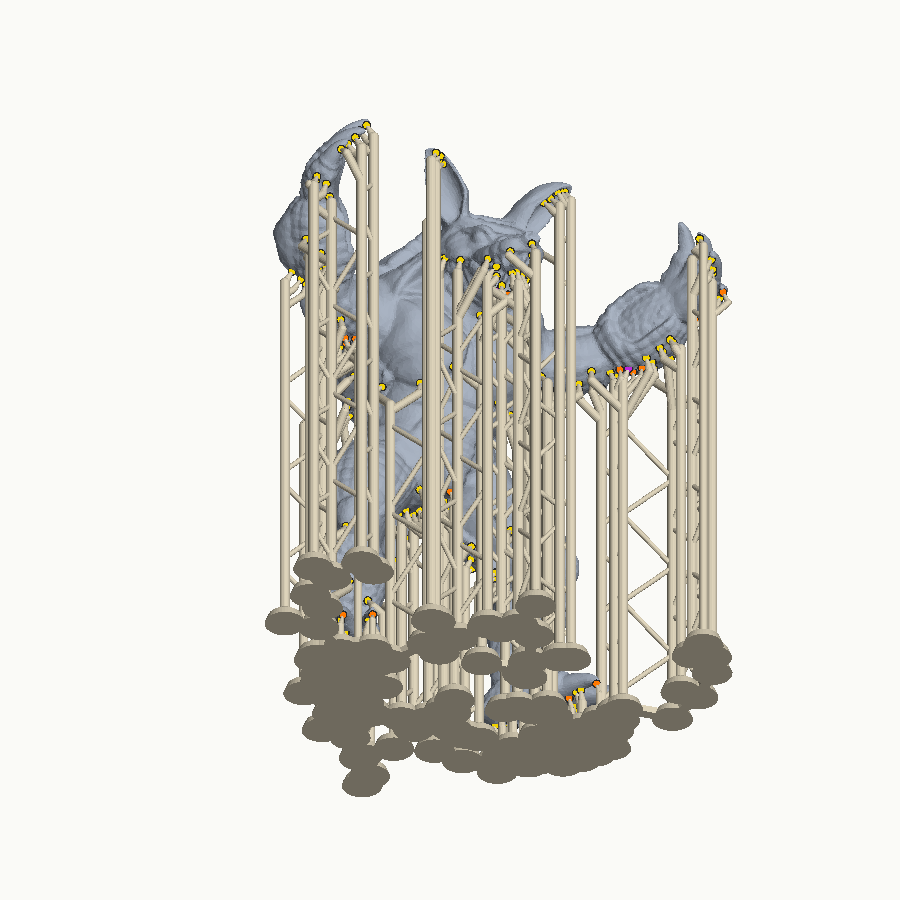
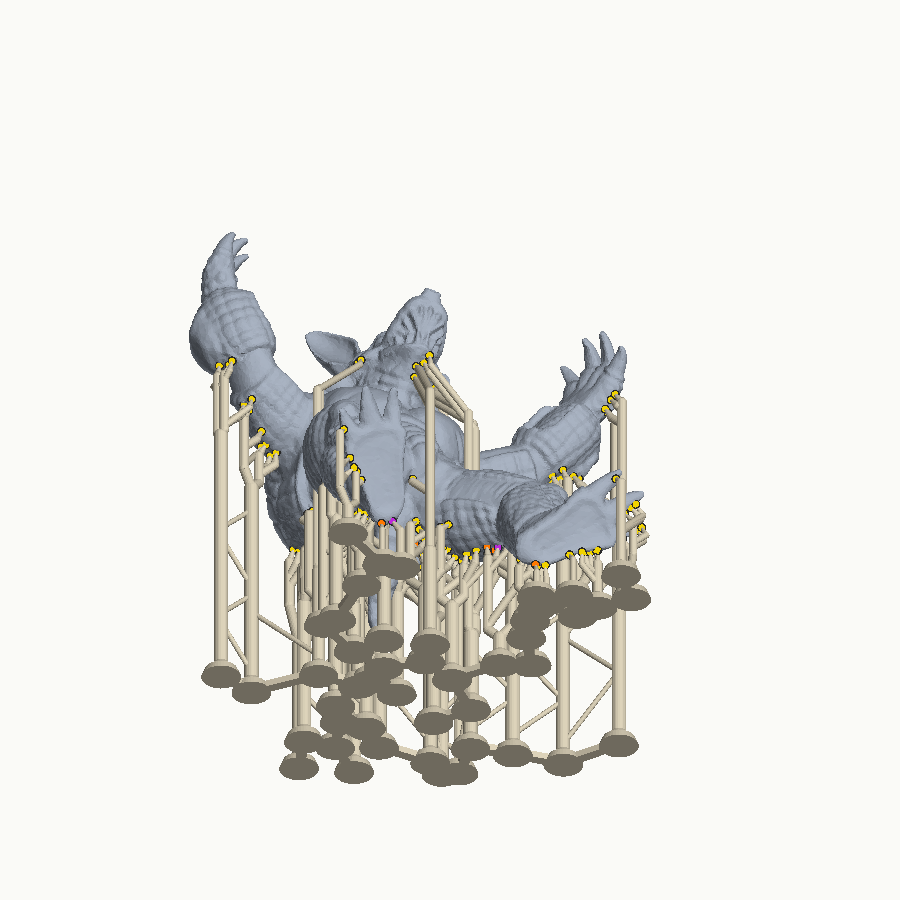
M5 (part): branching trunks
- Pillars within 8 mm merge where 45 deg branches from each meet, below
  the flex zone and below any bridge already attached to either shaft;
  trunk cross-section = sum of the two (capped 1.8 mm), <= 6 tips per
  trunk; branch rods and the trunk's drop are clearance-checked
- Bracing and raft pads only for trunks on the raft; `--no-merge`
- Fix found by the validator: a merge could cut a shaft above a bridge
  attached lower down, leaving the bridge end floating
- Armadillo (best orientation): 82 -> 47 trunks, 189 -> 35 braces,
  4.4 -> 3.9 ml, still 0 floating islands, one-piece raft
- Test: plate at 20 mm elevation gets fewer trunks, tip cap respected,
  branches clear of the model, nothing floats

Claude-Session: https://claude.ai/code/session_01Ughg7iXq7jF1qh9cXm2X9X

Changed region(s): [[0.1867, 0.1244, 0.8089, 0.9022]]

diff --git a/src/support/SupportTree.cpp b/src/support/SupportTree.cpp
@@ -101,6 +101,7 @@ private:
     void newPillar(int head, bool on_model, const Vec3& anchor = {}, const Vec3& anchor_n = {});
     void brace();
     void raft();
+    void mergePillars();
 
     const TriangleMesh& mesh_;
     const TreeConfig& cfg_;
@@ -177,8 +178,10 @@ bool Builder::attachToPillar(int hi) {
     Pillar& P = out_.pillars[best];
     out_.bridges.push_back({h.junction, best_attach, h.spec.shaft_diameter});
     P.top = std::max(P.top, best_attach.z);
+    P.lowest_attach = std::min(P.lowest_attach, best_attach.z);
     P.heads.push_back(hi);
     ++P.bridges;
+    ++P.tips;
     P.diameter = std::max(P.diameter, h.spec.shaft_diameter) + 0.1;
     return true;
 }
@@ -205,7 +208,7 @@ void Builder::brace() {
     // Minimum spanning tree over raft-standing pillars (Prim, O(n²)).
     std::vector<int> idx;
     for (size_t i = 0; i < out_.pillars.size(); ++i)
-        if (!out_.pillars[i].on_model) idx.push_back(static_cast<int>(i));
+        if (!out_.pillars[i].on_model && !out_.pillars[i].merged) idx.push_back(static_cast<int>(i));
     const size_t n = idx.size();
     if (n < 2) return;
     std::vector<double> best(n, 1e300);
@@ -241,12 +244,68 @@ void Builder::brace() {
     }
 }
 
+void Builder::mergePillars() {
+    if (!cfg_.merge_pillars) return;
+    const double z_floor = out_.raft_top + cfg_.base_height + 1.0;
+    auto active = [&](const Pillar& P) { return !P.on_model && !P.merged; };
+    while (true) {
+        // Closest mergeable pair first (deterministic: ties by index).
+        int ba = -1, bb = -1;
+        double bd = 1e300;
+        Vec3 bm;
+        double bzs = 0;
+        for (size_t i = 0; i < out_.pillars.size(); ++i) {
+            const Pillar& A = out_.pillars[i];
+            if (!active(A)) continue;
+            for (size_t j = i + 1; j < out_.pillars.size(); ++j) {
+                const Pillar& B = out_.pillars[j];
+                if (!active(B)) continue;
+                const double d = distance(A.xy, B.xy);
+                if (d > cfg_.max_merge_distance || d >= bd || d < 1e-6) continue;
+                if (A.tips + B.tips > cfg_.max_tips_per_trunk) continue;
+                // Branches start below the flex zone of the lower pillar and
+                // meet at 45°.
+                // ... and below every bridge already attached to either shaft.
+                const double zs = std::min({std::min(A.top, B.top) - cfg_.flex_zone, A.lowest_attach - 0.5,
+                                            B.lowest_attach - 0.5});
+                const Vec2 mid = (A.xy + B.xy) * 0.5;
+                const Vec3 m{mid.x, mid.y, zs - d / 2};
+                if (m.z < z_floor) continue;
+                const double r_new = std::min(cfg_.max_trunk_diameter, std::hypot(A.diameter, B.diameter)) / 2;
+                if (!segmentClear({A.xy.x, A.xy.y, zs}, m, A.diameter / 2)) continue;
+                if (!segmentClear({B.xy.x, B.xy.y, zs}, m, B.diameter / 2)) continue;
+                if (!dropClear(m, r_new)) continue;
+                ba = static_cast<int>(i);
+                bb = static_cast<int>(j);
+                bd = d;
+                bm = m;
+                bzs = zs;
+            }
+        }
+        if (ba < 0) break;
+        Pillar& A = out_.pillars[ba];
+        Pillar& B = out_.pillars[bb];
+        out_.branches.push_back({{A.xy.x, A.xy.y, bzs}, bm, A.diameter});
+        out_.branches.push_back({{B.xy.x, B.xy.y, bzs}, bm, B.diameter});
+        A.merged = B.merged = true;
+        A.bottom = bzs;
+        B.bottom = bzs;
+        Pillar C;
+        C.xy = bm.xy();
+        C.top = bm.z;
+        C.bottom = out_.raft_top + cfg_.base_height;
+        C.diameter = std::min(cfg_.max_trunk_diameter, std::hypot(A.diameter, B.diameter));
+        C.tips = A.tips + B.tips;
+        out_.pillars.push_back(C);
+    }
+}
+
 void Builder::raft() {
     if (cfg_.raft == RaftStyle::None) return;
     // Join pads along a minimum spanning tree so the raft is one piece.
     std::vector<int> idx;
     for (size_t i = 0; i < out_.pillars.size(); ++i)
-        if (!out_.pillars[i].on_model) idx.push_back(static_cast<int>(i));
+        if (!out_.pillars[i].on_model && !out_.pillars[i].merged) idx.push_back(static_cast<int>(i));
     const size_t n = idx.size();
     if (n < 2) return;
     std::vector<double> best(n, 1e300);
@@ -322,6 +381,7 @@ SupportTree Builder::run(const std::vector<SupportPoint>& pts) {
         ++out_.dropped_points;
         warn("no_route", "head has no clear path to the raft or a short drop onto the model; point dropped", p.pos);
     }
+    mergePillars();
     brace();
     raft();
     return std::move(out_);
@@ -340,7 +400,9 @@ TriangleMesh SupportTree::mesh(const TreeConfig& cfg) const {
     for (const Pillar& P : pillars) {
         const Vec3 top{P.xy.x, P.xy.y, P.top}, bottom{P.xy.x, P.xy.y, P.bottom};
         appendShaft(m, top, bottom, P.diameter, q, true);
-        if (P.on_model) {
+        if (P.merged) {
+            appendSphere(m, bottom, P.diameter / 2, q.segments(P.diameter / 2));
+        } else if (P.on_model) {
             // Reversed pinhead: thin contact sinking 0.1 mm into the surface below.
             PinheadSpec a;
             a.tip_diameter = 0.4;
@@ -359,6 +421,10 @@ TriangleMesh SupportTree::mesh(const TreeConfig& cfg) const {
         }
     }
     for (const Rod& r : braces) appendFrustum(m, r.a, r.diameter / 2, r.b, r.diameter / 2, q.segments(r.diameter / 2));
+    for (const Rod& r : branches) {
+        appendFrustum(m, r.a, r.diameter / 2, r.b, r.diameter / 2, q.segments(r.diameter / 2));
+        appendSphere(m, r.b, r.diameter / 2, q.segments(r.diameter / 2));
+    }
     // Raft links: flat bars from the plate up, so the raft's first layers are
     // already one piece.
     for (const Rod& r : raft_links) {

diff --git a/src/app/main.cpp b/src/app/main.cpp
@@ -313,6 +313,7 @@ int cmdRender(const std::string& path, const PlacementOpts& place, const std::st
 struct SupportOpts {
     std::string points_in, out = "supported.stl", supports_only, report, preview, raft = "pads";
     bool no_validate = false;
+    bool no_merge = false;
 };
 
 int cmdSupport(const std::string& path, const PlacementOpts& place, double layer_h, const PointsOpts& popts,
@@ -343,6 +344,7 @@ int cmdSupport(const std::string& path, const PlacementOpts& place, double layer
         std::ofstream(o.out + ".points.json") << pointsToJson(pts).dump(1) << "\n";
     }
     TreeConfig tc;
+    tc.merge_pillars = !o.no_merge;
     if (o.raft == "none") tc.raft = RaftStyle::None;
     else if (o.raft != "pads") throw std::runtime_error("--raft must be pads or none");
     const SupportTree tree = buildSupportTree(mesh, pts, tc, printer.minRaftThickness());
@@ -364,6 +366,8 @@ int cmdSupport(const std::string& path, const PlacementOpts& place, double layer
     r["points"] = pts.size();
     r["heads"] = tree.heads.size();
     r["pillars"] = tree.pillars.size();
+    r["trunks_on_raft"] = tree.trunks();
+    r["branches"] = tree.branches.size();
     r["pillars_on_model"] = anchors;
     r["bridges"] = tree.bridges.size();
     r["braces"] = tree.braces.size();
@@ -541,6 +545,7 @@ int main(int argc, char** argv) {
     support->add_option("--report", sopts.report, "Report JSON");
     support->add_option("--preview", sopts.preview, "Preview PNG (from below)");
     support->add_flag("--no-validate", sopts.no_validate, "Skip the floating-island check");
+    support->add_flag("--no-merge", sopts.no_merge, "Keep one pillar per head cluster (no branching trunks)");
 
     OrientCli ocli;
     auto* orient = app.add_subcommand("orient", "Search build orientations; prints the best --rotate values");

diff --git a/src/support/SupportTree.h b/src/support/SupportTree.h
@@ -38,6 +38,12 @@ struct TreeConfig {
     double brace_step = 6.0;           // vertical spacing of brace levels
     double max_route_length = 15.0;    // diagonal search for a clear drop
     double max_model_anchor_drop = 10.0;  // longest pillar allowed to stand on the model
+    // Branching: pillars within reach merge where 45° branches from each meet,
+    // below the flex zone; fewer, thicker trunks reach the raft.
+    bool merge_pillars = true;
+    double max_merge_distance = 8.0;
+    int max_tips_per_trunk = 6;
+    double max_trunk_diameter = 1.8;
     RaftStyle raft = RaftStyle::Pads;
     double raft_thickness = 1.0;       // raised to the printer's bottom+transition layers if thinner
     double base_diameter = 3.0;
@@ -60,6 +66,9 @@ struct Pillar {
     std::vector<int> heads;
     int bridges = 0;
     bool on_model = false;       // stands on the model (anchor) instead of the raft
+    bool merged = false;         // ends in a branch into a trunk instead of reaching the raft
+    int tips = 1;                // tips carried (for trunk limits)
+    double lowest_attach = 1e9;  // lowest bridge attachment on the shaft (a merge must start below it)
     Vec3 anchor_contact, anchor_normal;
 };
 
@@ -73,10 +82,17 @@ struct SupportTree {
     std::vector<Pillar> pillars;
     std::vector<Rod> bridges;
     std::vector<Rod> braces;
+    std::vector<Rod> branches;   // pillar -> trunk diagonals
     std::vector<Rod> raft_links;
     double raft_top = 0;
     std::vector<Warning> warnings;
     size_t dropped_points = 0;
+
+    size_t trunks() const {  // pillars standing on the raft
+        size_t n = 0;
+        for (const auto& p : pillars) n += !p.on_model && !p.merged;
+        return n;
+    }
 
     TriangleMesh mesh(const TreeConfig& cfg) const;
 };

diff --git a/tests/test_tree.cpp b/tests/test_tree.cpp
@@ -92,3 +92,32 @@ TEST_CASE("tall supports get braces outside the flex zone", "[tree]") {
     }
     CHECK(b.check.floating.empty());
 }
+
+TEST_CASE("branching merges pillars into fewer trunks without touching the model", "[tree]") {
+    TriangleMesh m = makeBox({0, 0, 0}, {24, 24, 2});
+    placeOnPlate(m, {0, 0, 0}, 20.0);
+    SupportConfig cfg;
+    cfg.layer_height = 0.1;
+    const auto pts = generateSupportPoints(m, cfg).points;
+    TreeConfig flat;
+    flat.merge_pillars = false;
+    TreeConfig branch;
+    const double raft = PrinterProfile::saturn4Ultra16k().minRaftThickness();
+    const SupportTree a = buildSupportTree(m, pts, flat, raft);
+    const SupportTree b = buildSupportTree(m, pts, branch, raft);
+    CHECK(b.trunks() < a.trunks());
+    CHECK_FALSE(b.branches.empty());
+    // Every trunk carries at most the configured number of tips.
+    for (const auto& P : b.pillars)
+        if (!P.merged && !P.on_model) CHECK(P.tips <= branch.max_tips_per_trunk);
+    // Branch rods keep clear of the model.
+    AabbTree tree(m);
+    for (const auto& r : b.branches)
+        for (int k = 0; k <= 10; ++k) {
+            const Vec3 q = r.a + (r.b - r.a) * (k / 10.0);
+            CHECK(tree.closest(q).distance >= r.diameter / 2 + branch.clearance - 1e-6);
+        }
+    const ValidationReport v = validateSupported(m, b.mesh(branch), 0.1, cfg.link_grow);
+    CHECK(v.floating.empty());
+    CHECK(v.first_layer_islands == 1);
+}

diff --git a/README.md b/README.md
@@ -17,7 +17,8 @@ behind it, and the milestone plan are in
 | M1 — support-point generator (coverage through material + capacity + islands), points JSON with persistent manual edits, preview renderer | done (calibration still needed) |
 | M2 — heads (collision-aware), pillars with 45° bridges and diagonal ground routes, bracing outside the flex zone, one-piece pad raft, model+supports STL, floating-island validation | phase 1 done |
 | M3 — orientation search (two-stage: mesh proxies over 64 directions, full generator on the 6 best) | done |
-| M4 — reports, lint via UVtools, edit round-trip in CI | next |
+| M5 (part) — branching: nearby pillars merge into trunks below the flex zone | done |
+| Physical validation: overlap coupon, calibration plates | **needs your printer** |
 
 ## Build
 
@@ -149,13 +150,18 @@ Each point gets:
   case is reported because it marks an upper surface;
 - bracing between tall pillars, kept out of the 2 mm flex zone below the
   heads so the tips bend and snap off at the part;
-- a pad under each pillar, the pads joined by flat bars, so the raft and
+- branching: pillars within 8 mm merge where 45° branches from each meet,
+  below the flex zone and below any bridge already on them. The trunk's
+  cross-section is the sum of the two, and at most 6 tips share one trunk.
+  On the armadillo this cut trunks reaching the raft from 82 to 47 and braces
+  from 189 to 35 (`--no-merge` turns it off);
+- a pad under each trunk, the pads joined by flat bars, so the raft and
   supports come off as one piece.
 
 The report re-slices model plus supports and lists anything that would still
 start printing in mid-air (`validation.floating_islands`, which should be 0).
 
-![Supports generated for the armadillo](docs/armadillo_supported_preview.png)
+![Supports generated for the armadillo in its best orientation](docs/armadillo_supported_preview.png)
 
 ### Overlap coupon (please run this first)
 

diff --git a/docs/resin-support-plan.md b/docs/resin-support-plan.md
@@ -229,6 +229,8 @@ tests/         unit/, models/ (procedural generators), golden/ (metric snapshots
 | M1 point generator | done | Coverage through material + capacity + island minimums, greedy + prune, cosmetic/edge cost, persistent manual edits. |
 | M2 support tree | phase 1 done | Collision-aware heads, pillars with 45° bridges, diagonal ground routes, bracing outside the flex zone, one-piece pad raft, floating-island validation. |
 | M3 orientation | done | Two-stage search; −15 % / −17 % points on the armadillo / bunny vs their input orientation. |
+| M5 branching (part) | done | Pillars merge into trunks at 45° below the flex zone; armadillo: 82 → 47 trunks, 189 → 35 braces, 4.4 → 3.9 ml. Model anchors with a weight limit and the no-trap rule are still open. |
+| M4 / M6 | open | UVtools as external lint; native `.goo` with grayscale contact weakening (blocked on inspecting a real 16K file). |
 
 **Corrections and findings found during implementation:**
 
